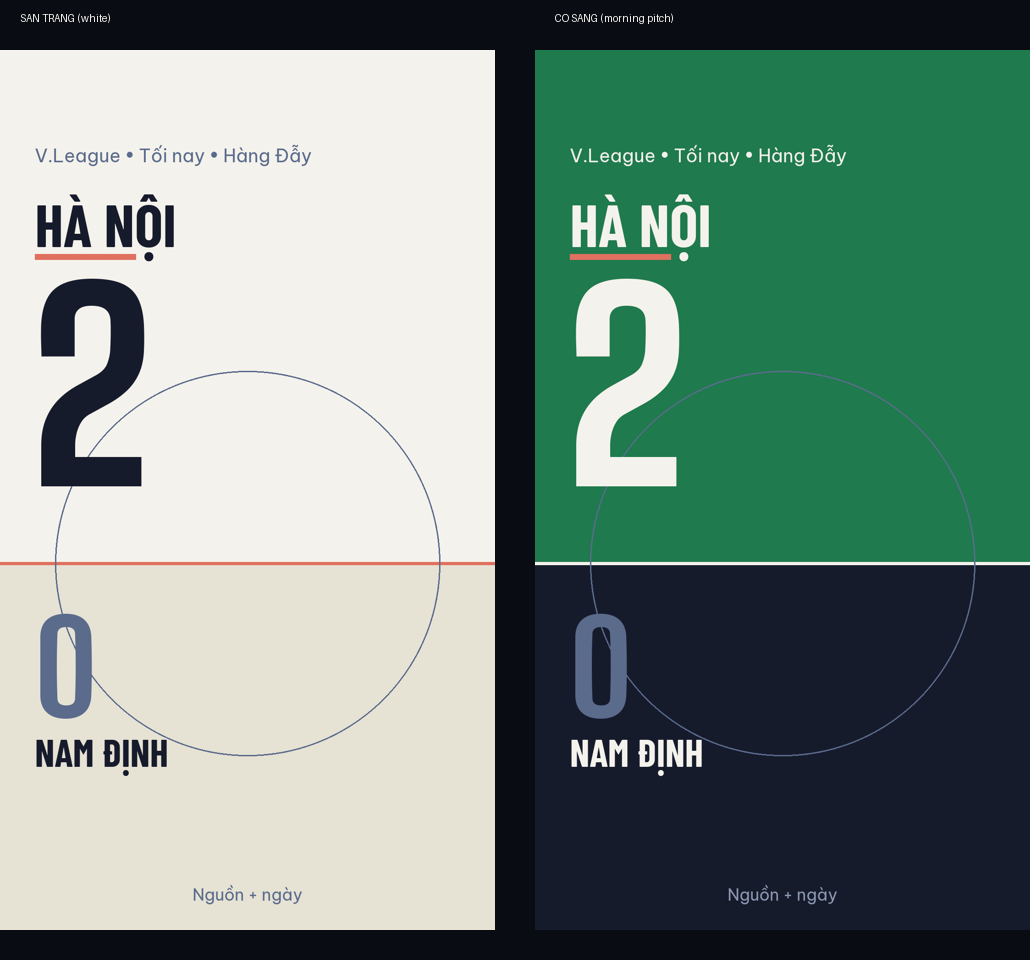
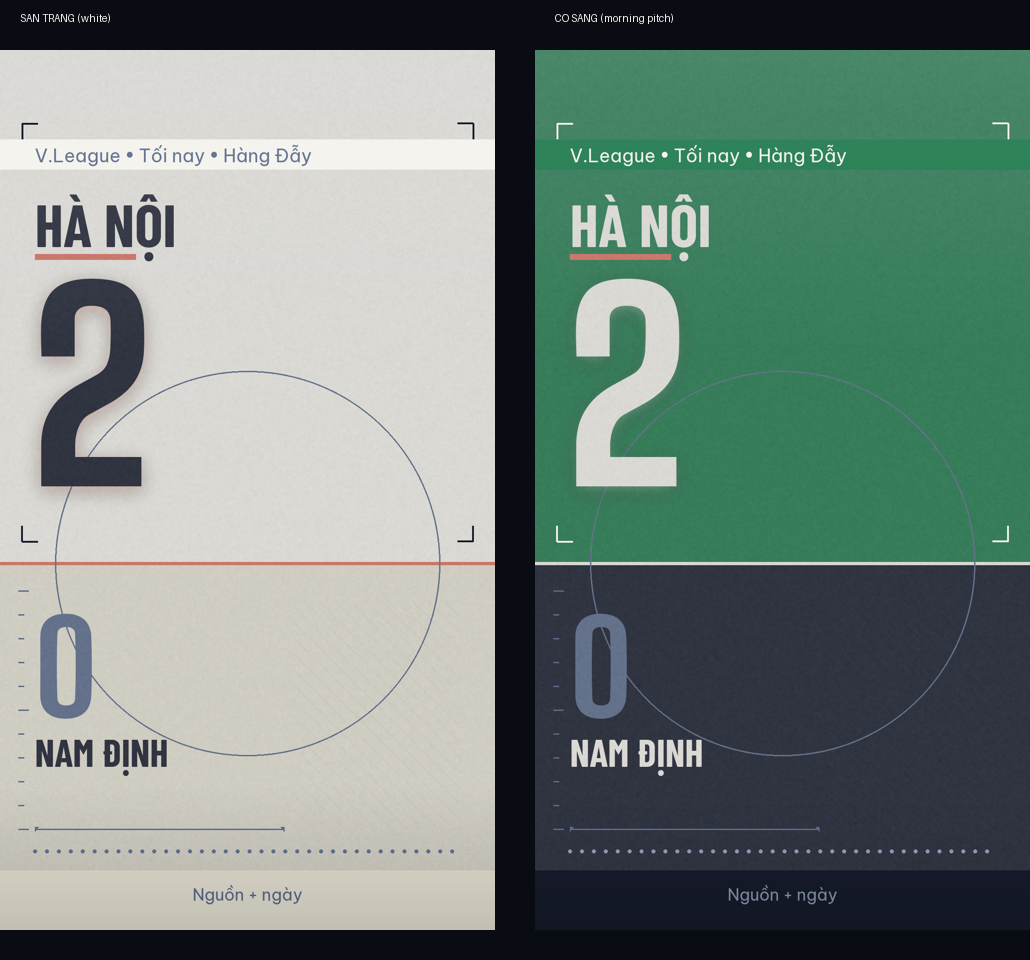
fix(design): fair colorway comparison with full finishing passes
- Admit method error: flat colorways were compared against finished v4; depth-lite + detailing now parameterized by palette (haze/detail colors per colorway, white drops haze by restraint)
- Both colorways render with lite depth + detailing; tests cover finished output
- Full suite 287 passed

diff --git a/apps/studio_templates/redesign_mr02_skill.py b/apps/studio_templates/redesign_mr02_skill.py
@@ -57,6 +57,8 @@ DEFAULT_PALETTE = {
     "rule": PAPER, "circle": SLATE, "context_win": INK, "context_draw": PAPER,
     "loser_numeral": SLATE, "loser_name": PAPER, "credit": MIST,
     "winner_bar": None,
+    "haze": [(150, 90, PAPER, 14), (1330, 110, CORAL, 16)],
+    "detail_primary": INK, "detail_faint": MIST,
 }
 
 # theme-factory method: curated colorways as named palettes. White primary
@@ -67,6 +69,8 @@ SAN_TRANG = {
     "rule": CORAL, "circle": SLATE, "context_win": SLATE, "context_draw": SLATE,
     "loser_numeral": SLATE, "loser_name": INK, "credit": SLATE,
     "winner_bar": CORAL,
+    "haze": None,
+    "detail_primary": INK, "detail_faint": SLATE,
 }
 
 CO_SANG = {
@@ -75,6 +79,8 @@ CO_SANG = {
     "rule": PAPER, "circle": SLATE, "context_win": PAPER, "context_draw": PAPER,
     "loser_numeral": SLATE, "loser_name": PAPER, "credit": MIST,
     "winner_bar": CORAL,
+    "haze": [(150, 90, PAPER, 14), (1330, 110, CORAL, 16)],
+    "detail_primary": PAPER, "detail_faint": MIST,
 }
 
 COLORWAYS = {"san-trang": SAN_TRANG, "co-sang": CO_SANG}
@@ -139,11 +145,12 @@ def render_redesign(home: str, away: str, score: str, comp: str, when: str,
     draw.text((W // 2, 1820), "Nguồn + ngày", font=font_brand("body", 36),
               fill=pal["credit"], anchor="ma")
     if depth:
-        img = apply_depth_pass(img, seed=seed, lite=(depth == "lite"))
+        img = apply_depth_pass(img, seed=seed, lite=(depth == "lite"), palette=pal)
     return img
 
 
-def apply_depth_pass(img: Image.Image, seed: int = 7, lite: bool = False) -> Image.Image:
+def apply_depth_pass(img: Image.Image, seed: int = 7, lite: bool = False,
+                     palette: dict | None = None) -> Image.Image:
     """broadcast-depth moves 1, 3, 4 (glow already drawn by the caller).
 
     lite=True (emil-design-eng restraint: remove accessories until it reads
@@ -152,6 +159,7 @@ def apply_depth_pass(img: Image.Image, seed: int = 7, lite: bool = False) -> Ima
     low alpha; grain is monochrome and skips microcopy zones.
     """
     lite_sigma, lite_strength = (8, 60) if lite else (16, 100)
+    pal = DEFAULT_PALETTE if palette is None else palette
     rgba = img.convert("RGBA")
     # Move 1: top-light gradient + bottom shade, one light direction.
     light = Image.new("L", (1, H))
@@ -166,11 +174,12 @@ def apply_depth_pass(img: Image.Image, seed: int = 7, lite: bool = False) -> Ima
     black = Image.new("RGBA", (W, H), (0, 0, 0, 0))
     black.putalpha(shade.resize((W, H)))
     rgba = Image.alpha_composite(rgba, black)
-    # Move 4: two haze bands over dead zones only (never over the numeral).
-    # Lite restraint: haze bands are the first accessory removed.
-    if not lite:
-        for y0, height, color, alpha in (
-                (150, 90, PAPER, 14), (1330, 110, CORAL, 16)):
+    # Move 4: haze bands over dead zones only (never over the numeral).
+    # Lite restraint: haze bands are the first accessory removed. Palettes
+    # may drop haze entirely (e.g. white fields where it would not read).
+    haze = pal.get("haze")
+    if not lite and haze:
+        for y0, height, color, alpha in haze:
             band = Image.new("RGBA", (W, height), color + (alpha,))
             rgba.paste(band, (0, y0), band)
     # Move 3: seeded monochrome grain, masked off microcopy strips.
@@ -213,21 +222,25 @@ except ImportError:  # direct script run: python apps/studio_templates/redesign_
     )
 
 
-def apply_mr02_detailing(img: Image.Image, seed: int = 21) -> Image.Image:
+def apply_mr02_detailing(img: Image.Image, seed: int = 21,
+                         palette: dict | None = None) -> Image.Image:
     """emil-design-eng detailing on the lite pass: unseen details compound.
 
     Only non-data details (rule: details never carry data). The card's real
     slots are all displayed already, so no micro-label is added — restraint
     is the point.
     """
+    pal = DEFAULT_PALETTE if palette is None else palette
+    primary = pal.get("detail_primary", INK)
+    faint = pal.get("detail_faint", MIST)
     work = img.convert("RGB")
     draw = ImageDraw.Draw(work)
     # Technical framing of the winner field.
-    corner_marks(draw, (48, 160, 1032, 1072), INK)
+    corner_marks(draw, (48, 160, 1032, 1072), primary)
     # Notched trim under the loser name zone.
     hairline_rule(draw, MARGIN, 620, 1700, SLATE)
     # Ticket perforation above provenance.
-    perforation(draw, MARGIN, W - MARGIN, 1748, MIST)
+    perforation(draw, MARGIN, W - MARGIN, 1748, faint)
     # Texture rhythm on the loser edge + air in the right void.
     tick_ruler(draw, 40, 1180, 1700, 52, SLATE)
     work = pinstripes(work, (640, 1200, 1004, 1700), SLATE, 14, 34, seed)
@@ -253,8 +266,10 @@ def main() -> None:
     detail.save(detail_path)
     cw_paths = []
     for cw_id in ("san-trang", "co-sang"):
+        pal = COLORWAYS[cw_id]
         cw = render_redesign("HÀ NỘI", "NAM ĐỊNH", "2 - 0", "V.League", "Tối nay • Hàng Đẫy",
-                             palette=COLORWAYS[cw_id])
+                             depth="lite", seed=7, palette=pal)
+        cw = apply_mr02_detailing(cw, palette=pal)
         cw_path = OUT_DIR / f"mr02-{cw_id}-proof.png"
         cw.save(cw_path)
         cw_paths.append(cw_path)

diff --git a/tests/test_design_skills.py b/tests/test_design_skills.py
@@ -130,9 +130,19 @@ def test_detail_primitives_catalog_has_no_data_carriers():
 
 def test_white_colorways_render_and_pass_contrast():
     from apps.studio_templates.audit_cards import contrast, hex_rgb
-    from apps.studio_templates.redesign_mr02_skill import COLORWAYS, render_redesign
+    from apps.studio_templates.redesign_mr02_skill import (
+        COLORWAYS,
+        apply_mr02_detailing,
+        render_redesign,
+    )
 
     assert set(COLORWAYS) == {"san-trang", "co-sang"}
+    for cw_id, palette in COLORWAYS.items():
+        finished = apply_mr02_detailing(
+            render_redesign("HÀ NỘI", "NAM ĐỊNH", "2 - 0", "V.League", "Tối nay",
+                            depth="lite", seed=7, palette=palette),
+            palette=palette)
+        assert finished.size == (1080, 1920), cw_id
     white = render_redesign("HÀ NỘI", "NAM ĐỊNH", "2 - 0", "V.League", "Tối nay",
                             palette=COLORWAYS["san-trang"])
     green = render_redesign("HÀ NỘI", "NAM ĐỊNH", "2 - 0", "V.League", "Tối nay",

diff --git a/docs/design-skills.md b/docs/design-skills.md
@@ -90,8 +90,9 @@ pixels, palette lock, catalog toàn non-data).
 - **co-sang** (sân cỏ sáng): green `#1F7A4D` winner field, paper numeral
   (≥3.0 large-display), coral bar neo brand, ink loser zone.
 - Demo trong `docs/design/` (không đụng 9.0.0 lock): `mr02-san-trang-proof`,
-  `mr02-co-sang-proof`, compare `mr02-colorways-compare`. Promote vào
-  template = bump version theo change_policy khi owner duyệt.
+  `mr02-co-sang-proof`, compare `mr02-colorways-compare` — cả hai render với
+  full finishing (lite depth + detailing) để so công bằng với bản detail v4.
+  Promote vào template = bump version theo change_policy khi owner duyệt.
 
 ## Skill thứ 3 + 4: algorithmic-art + broadcast-depth (vượt 2D)
 
